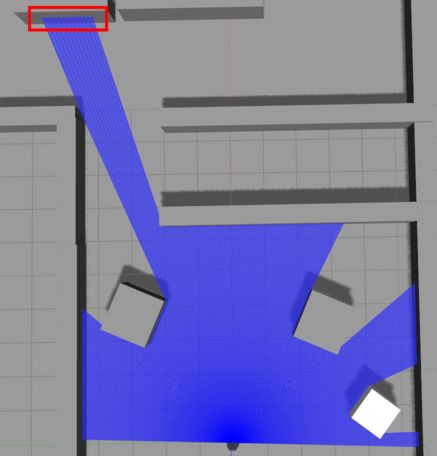
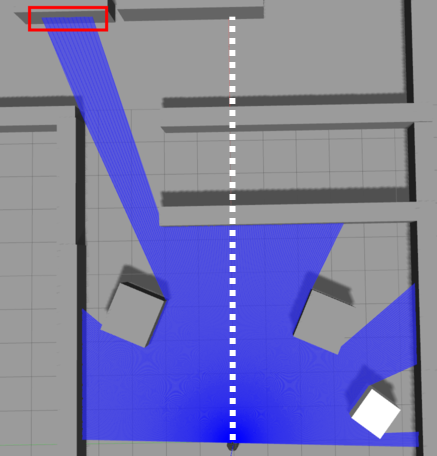
General revision of README (closes #7)

Changed region(s): [[0.5057, 0.0307, 0.5355, 0.9825]]

diff --git a/README.md b/README.md
@@ -3,7 +3,7 @@
 The purpose of this project is to enable a robot to compete in the Maze Challenge. 
 In this challenge, a turtlebot must independently find outside a previously unknown maze. 
 For maze wall and object recognition, a Hokuyo Laser Scanner is mounted to the turtlebot.
-The project is developed in Python language, using the Robot Operation System (ROS).
+The project is developed in Python language, using the Robot Operating System (ROS).
 
 ## Table of Contents
 
@@ -30,7 +30,7 @@ The project is developed in Python language, using the Robot Operation System (R
 
 ## Getting Started
 
-These instructions will guide you step by step how the get this project running on your machine.
+These instructions will guide you step by step how to get this project running on your machine.
 
 ### Prerequisites
 
@@ -40,7 +40,7 @@ Instructions in order to satisfy the prerequisites for installing the project.
 
 **Warning! Please use Ubuntu 16.04 as this is the Long Term Support Version (LTS). If you are using Ubuntu 17.04 you have to use ROS Lunar release on your own risk!**
 
-* Goto http://wiki.ros.org/kinetic/Installation/Ubuntu and follow the instructions there. The installation can take some time depending on your internet connection.
+* Go to http://wiki.ros.org/kinetic/Installation/Ubuntu and follow the instructions there. The installation can take some time depending on your internet connection.
 
 #### Turtlebot and Git
 
@@ -119,11 +119,12 @@ catkin_make
 
 ### Run the Project
 
-Instructions about how to run the project on your machine.
+Finally the instructions to run the project on your machine.
 
 #### Prepare Gazebo and Run the Project
 
-* Launch the simunlation environment gazebo, load a maze into gazebo and launch the project package (nv_171738_maze).
+* Launch the simulation environment gazebo, load a maze into gazebo and launch the project package (nv_171738_maze).
+
 ```
 roslaunch turtlebot_gazebo turtlebot_world.launch
 rosrun gazebo_ros spawn_model -file ~/catkin_ws/src/nv-171738_tier4/maze_practice/model.sdf -sdf -model -maze -x 16 -y 5
@@ -142,7 +143,7 @@ _Below is a screenshot showing an example maze. The goal is depicted as a red cr
 
 ## Functional Principle
 
-This section describes the internal algorithms used in this project.
+This section describes the internal algorithms used in this project for controlling the robot.
 
 ### Search and Approach Wall
 
@@ -156,13 +157,13 @@ Evaluate the laser data to find the best suitable wall, turn the robot in its di
 Connected data points are determined based on a threshold of their distance from each other.
 
     _The image below shows an example of classified data points marked with a frame.
-Notice that data point groups smaller than 20 are ignored by further algorithmns (marked with white dotted frame)._<br />
+Notice that data point groups smaller than 20 are ignored by further algorithms (marked with white dotted frame)._<br />
 ![Classified Datapoints](readme_files/classifiedDatapoints.png)
 1. Calculate the average (arithmetic mean) and standard deviation of each data point group and add to list.
 1. Choose list with preferably most elements, furthermost average distance and lowest standard deviation.
 This approach makes it very likely that a data point group referring to a wall instead of another object is chosen.
 1. Get absolute index of the middle point from the chosen data point group.<br />
-_The cyan arrow in the image above depicts an example for a chosen data point out of all groups._
+_The cyan arrow in the image above depicts an example for a chosen data point among all groups._
 1. Calculate the required rotation of the robot in degree to face this middle data point.
 1. Let the robot rotate based on `/odom` quaternion data. The quaternion data is converted into degree for easier handling.
 1. Approach the wall until a threshold distance from the wall is reached, then stop.
@@ -202,7 +203,7 @@ Then determine the index of the group with the smallest average distance and als
 let the robot rotate until the index of the smallest group equals the index of the target group 
 and the previous average distance of the target group is bigger than its current average distance.
 
-![Allign Robot to Obstacle](readme_files/allignRobotToObstacle.gif)
+![Align Robot to Obstacle](readme_files/alignRobotToObstacle.gif)
 
 ### Circle Detection and Repositioning
 
@@ -230,7 +231,8 @@ The laser data is split in the middle into two groups. The robot will then follo
 1. Split laser data into two groups and get their maximum value.
 1. Set the wall follow direction according to the group with the biggest maximum value.
 
-_In the image below you can see the maximum value in the left group, therefore the robot will initially follow the wall to the left._
+_In the image below you can see both groups separated by a white dotted line. 
+The maximum value is in the left group, therefore the robot will initially follow the wall to the left._
 
 ![Follow Wall Direction Heuristic](readme_files/followWallDirectionHeuristic.png)
 
